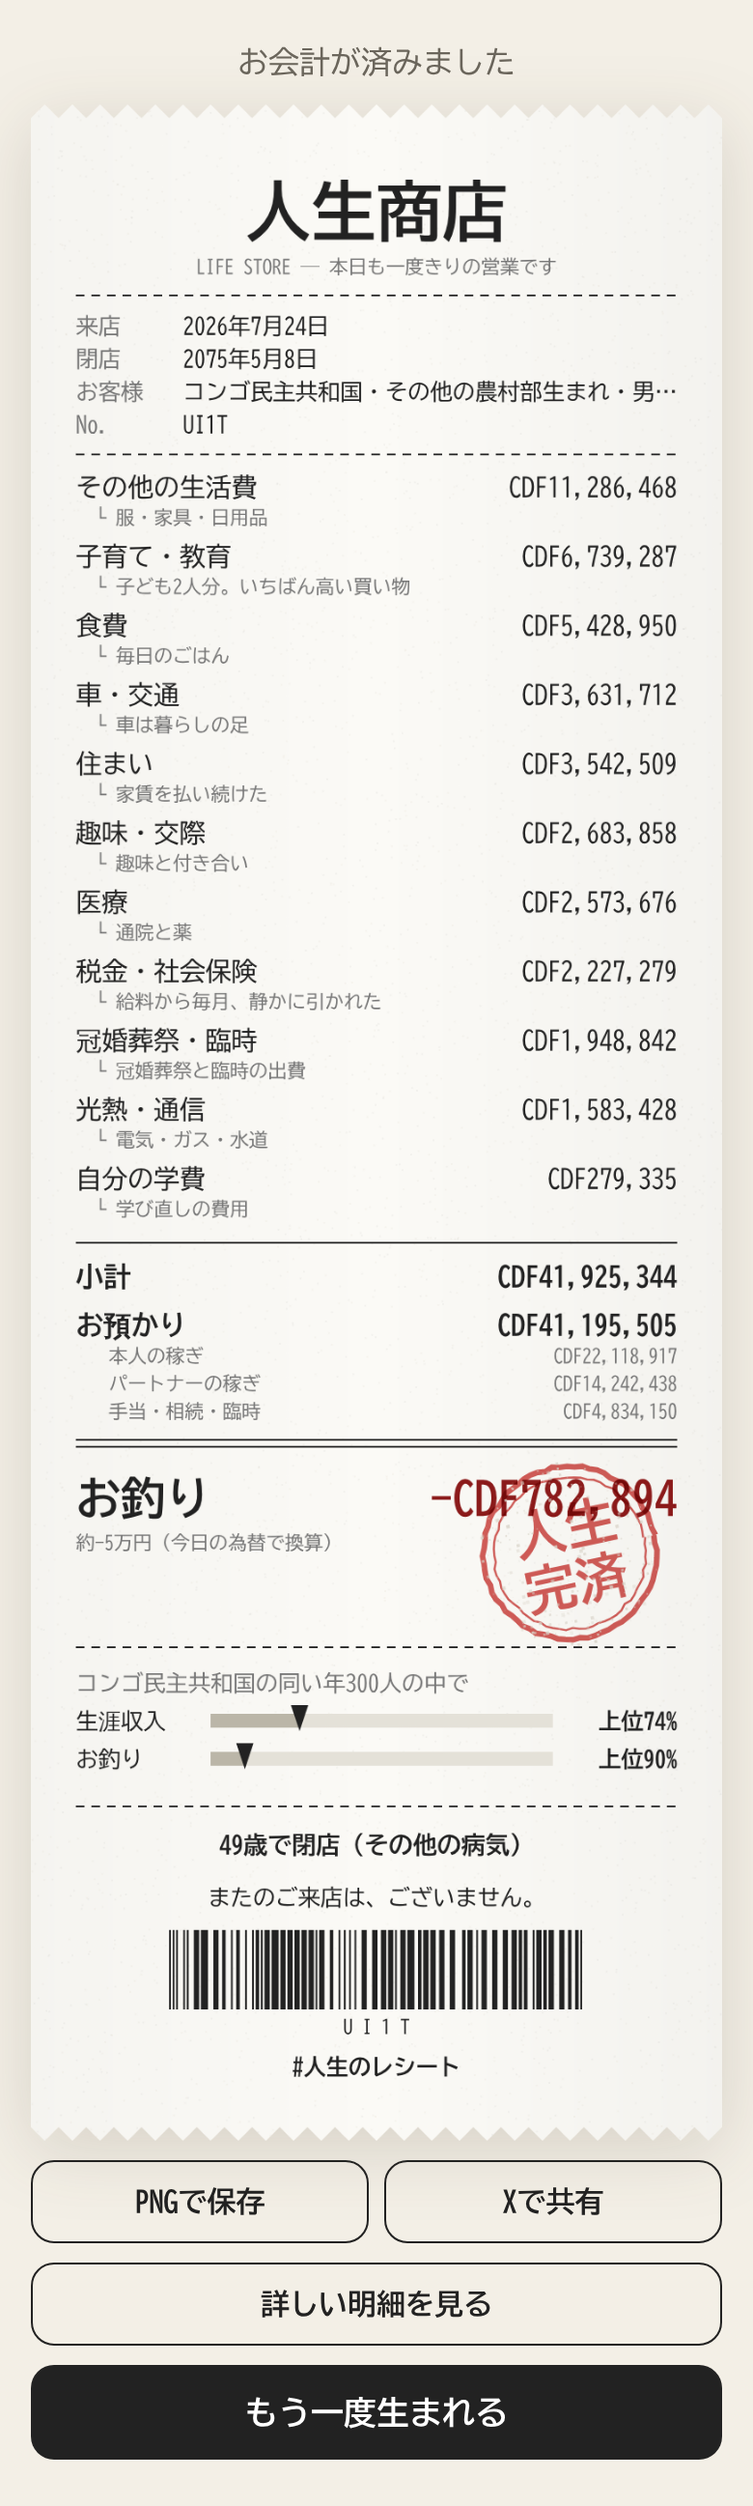
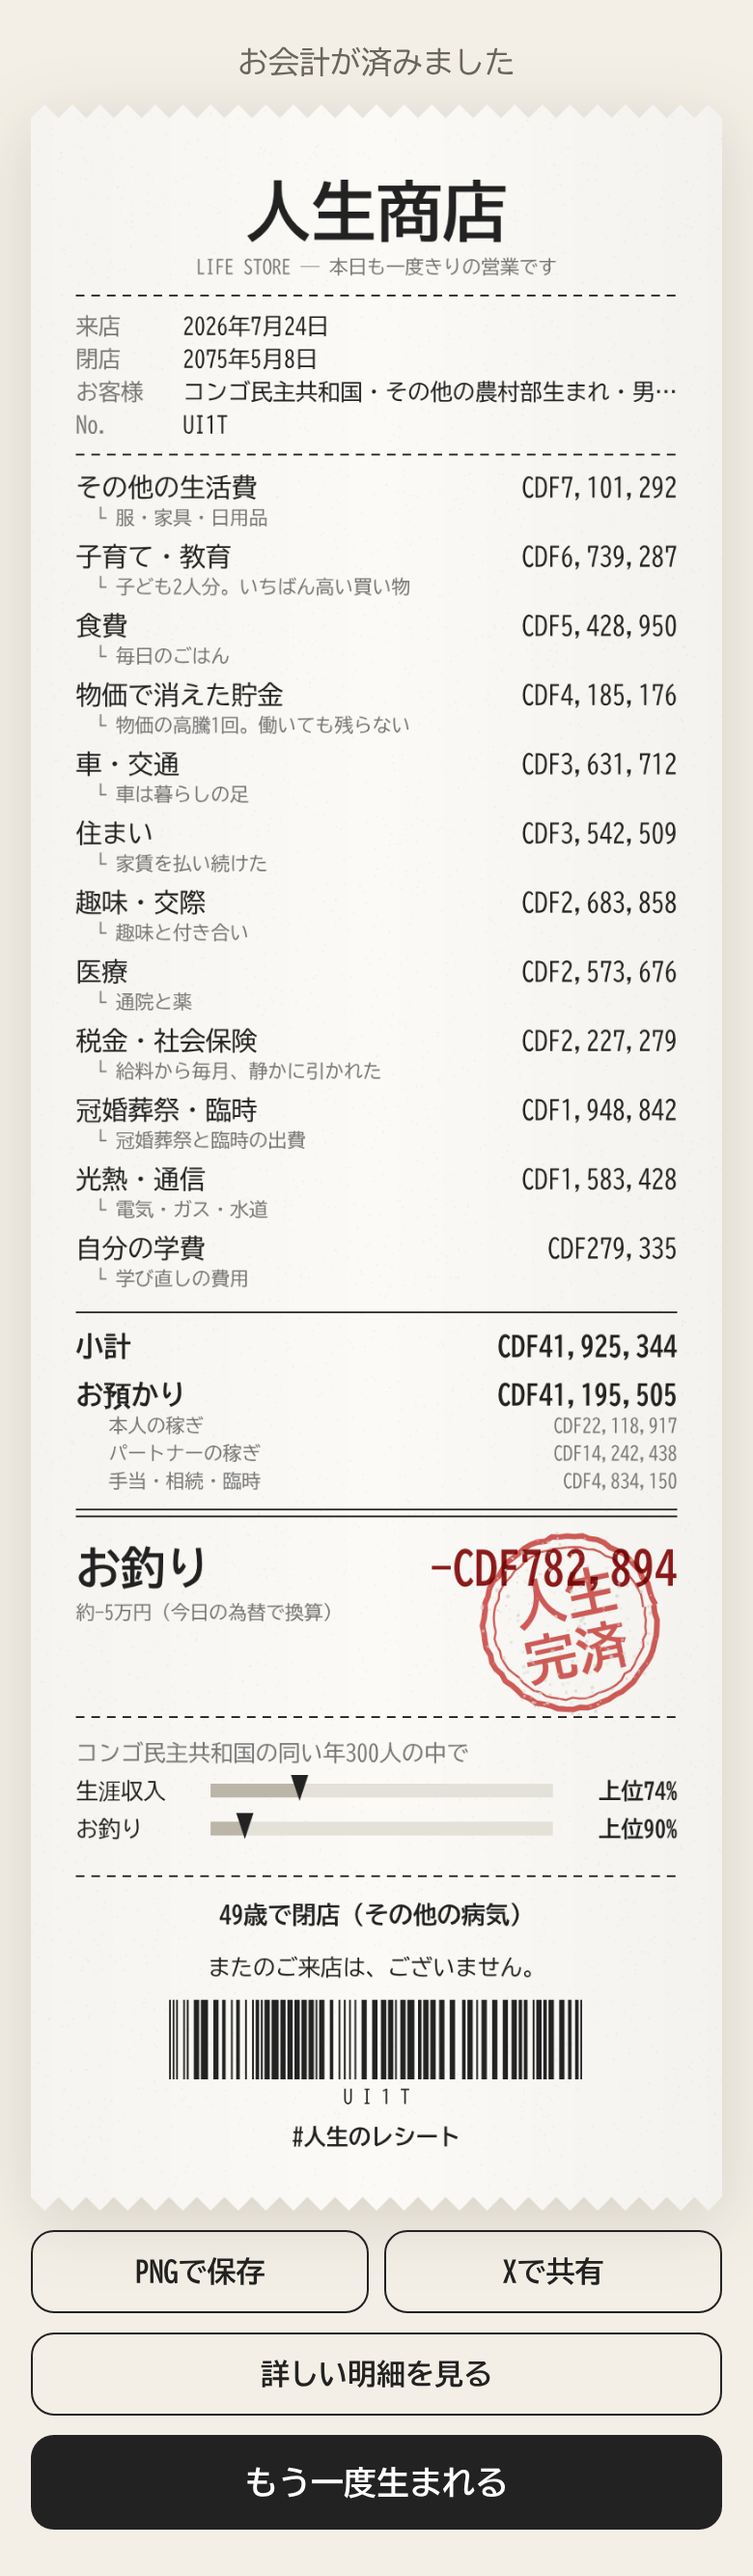
物価で目減りした貯金をレシートの別の行に表示
- 支出の区分に inflation（物価で消えた貯金）を追加し、物価の目減りをここに集計
- メモに物価の高騰が起きた回数を表示
- 税金のメモの判定を円換算で行うようにした（リアルなど桁の大きい通貨で誤っていた）

Claude-Session: https://claude.ai/code/session_01P8h7G7H9Hz4F9jwmunJGJH

diff --git a/src/engine/result.ts b/src/engine/result.ts
@@ -99,7 +99,7 @@ function memoFor(l: Life, cat: ExpenseCat, amount: number): string {
   const has = (t: string) => ev.some((e) => e.text.includes(t));
   switch (cat) {
     case "tax":
-      return amount > 80_000_000 ? "国にはずいぶん貢献した" : "給料から毎月、静かに引かれた";
+      return l.D.toJpy(amount) > 80_000_000 ? "国にはずいぶん貢献した" : "給料から毎月、静かに引かれた";
     case "housing":
       if (has("住宅ローンを完済")) return "35年ローン、完済";
       if (s.ownsHome) return l.loan > 0 ? "ローンは途中のまま" : "マイホーム";
@@ -125,6 +125,10 @@ function memoFor(l: Life, cat: ExpenseCat, amount: number): string {
       return has("災害") || has("地震") ? "災害の修理を含む" : "冠婚葬祭と臨時の出費";
     case "selfEdu":
       return l.choiceLog.some((c) => /loan|night/.test(c.optionId)) ? "奨学金と学費" : "学び直しの費用";
+    case "inflation": {
+      const spells = ev.filter((e) => e.text.includes("実際に記録された上昇率")).length;
+      return spells > 0 ? `物価の高騰${spells}回。働いても残らない` : "物価が上がり、少しずつ目減り";
+    }
     case "other":
       return "服・家具・日用品";
   }
@@ -133,7 +137,7 @@ function memoFor(l: Life, cat: ExpenseCat, amount: number): string {
 export function buildReceipt(l: Life): ReceiptData {
   const s = l.summary();
   const c = cohort(l.D);
-  const order: ExpenseCat[] = ["housing", "food", "tax", "kids", "car", "fun", "other", "utilities", "medical", "care", "selfEdu", "events"];
+  const order: ExpenseCat[] = ["housing", "food", "tax", "kids", "car", "fun", "other", "utilities", "medical", "care", "selfEdu", "events", "inflation"];
   const items: ReceiptItem[] = order
     .map((k) => ({ label: EXPENSE_LABEL[k], amount: Math.round(s.expenseTotal[k] ?? 0), memo: memoFor(l, k, s.expenseTotal[k] ?? 0) }))
     .filter((it) => it.amount >= 10_000)

diff --git a/src/engine/risks.ts b/src/engine/risks.ts
@@ -98,7 +98,7 @@ export function riskYear(l: Life, r: Rng): void {
     // 預金の利息で年5%ほどは取り戻せるとみなし、それを超える上昇の分だけ価値が減る
     const lossRate = Math.min(0.75, (Math.max(0, p - 0.05) / (1 + p)) * 0.8) * (l.protectCash ? 0.3 : 1);
     const loss = cash * lossRate;
-    if (loss > 0) l.spend("other", loss);
+    if (loss > 0) l.spend("inflation", loss);
     // 知らせは、激しい上昇が「始まった年」と「収まった年」だけにする（毎年出すと、出来事の一覧が埋まってしまう）
     if (p >= 0.25) {
       if (l.inflSpell === 0) {
@@ -127,11 +127,11 @@ export function riskYear(l: Life, r: Rng): void {
   } else if (cash > 0 && r.chance(k.inflationCrisisShare * 0.5)) {
     // 年ごとのデータがない国は、過去に物価が暴騰した年の割合から
     const loss = cash * r.range(0.3, 0.7) * (l.protectCash ? 0.4 : 1);
-    l.spend("other", loss);
+    l.spend("inflation", loss);
     l.log("money", `物価が急に跳ね上がり、通貨の価値が下がった。貯金の価値が${Math.round((loss / cash) * 10)}割ほど減った。`, -loss, true);
   } else if (cash > 0 && k.inflationMean > 0.08) {
     const rate = Math.min(0.2, (k.inflationMean - 0.05) * 0.6) * (l.protectCash ? 0.3 : 1);
-    l.spend("other", cash * rate);
+    l.spend("inflation", cash * rate);
     if (!l.inflationNoticed) {
       l.inflationNoticed = true;
       l.log("money", "物価が毎年のように上がり、手元のお金の価値が少しずつ目減りしていく。");

diff --git a/src/engine/types.ts b/src/engine/types.ts
@@ -22,6 +22,7 @@ export type ExpenseCat =
   | "car"
   | "fun"
   | "events"
+  | "inflation" // 物価の上昇で目減りした現金
   | "other";
 
 export type IncomeCat = "salary" | "partner" | "pension" | "windfall" | "invest";
@@ -38,6 +39,7 @@ export const EXPENSE_LABEL: Record<ExpenseCat, string> = {
   car: "車・交通",
   fun: "趣味・交際",
   events: "冠婚葬祭・臨時",
+  inflation: "物価で消えた貯金",
   other: "その他の生活費",
 };
 

diff --git a/README.md b/README.md
@@ -19,7 +19,7 @@
    - **小さな選択（1〜3年ごと）**：お小遣い、部活、アルバイト、ボーナスの使い道、副業の誘い、海外への出稼ぎ、家畜を買う、暗号資産、詐欺電話など26種類。国・年齢・状況で出るものが変わる。
    - **人生の出来事から生まれる選択**：結婚したら「子どもを持つか（ほしい／しばらく二人で／持たない）」、授からないときは不妊治療をするか。夫婦のすれ違いでは「話し合う／カウンセリング／別れる」（いきなり離婚はしない）。パートナーの暴力では「相談窓口の支援で家を出る／家族に相談／様子を見る」（描写はせず、日本では相談先 #8008 を表示）。
    - **国ごとの出来事（110種類）**：ナイジェリアの燃料費高騰、インドのモンスーン洪水、米国の医療費、韓国の塾代、フィリピンの海外就労など、その国の暮らしでよく起きることを選択つきで。
-   - **統計にもとづく出来事**：物価の暴騰（通貨の価値が急落）、盗難・強盗、政情不安、紛争による避難、感染症、干ばつ、洪水・地震。起こりやすさはその国のインフレ率・殺人率・政治の安定度などから決まる。物価が荒れやすい国では「ドルや金で貯める」選択も出る。毎年の物価上昇率は、その国で実際に記録された年の値をひと続きで借りてくる（例：「物価が1年で42%上がった（イランで2025年に実際に記録された上昇率）」）。
+   - **統計にもとづく出来事**：物価の暴騰（通貨の価値が急落）、盗難・強盗、政情不安、紛争による避難、感染症、干ばつ、洪水・地震。起こりやすさはその国のインフレ率・殺人率・政治の安定度などから決まる。物価が荒れやすい国では「ドルや金で貯める」選択も出る。毎年の物価上昇率は、その国で実際に記録された年の値をひと続きで借りてくる（例：「物価が1年で42%上がった（イランで2025年に実際に記録された上昇率）」）。物価で目減りした現金は、レシートに「物価で消えた貯金」として別の行で出る。
    - どの道にも得と損の両方がある。正解はない。
 6. 亡くなるとレシートが発行される。金額は現地通貨（日本以外は円換算も併記）。**PNGで保存**／**Xで共有**／**詳しい明細を見る** ができる。
 

diff --git a/data/world/sources.md b/data/world/sources.md
@@ -184,3 +184,4 @@
 - 現金の目減り：預金の利息で年5%ほどは取り戻せるとみなし、残りの上昇分 ×0.8 を価値の減少とする（最大75%、ドルや金で持っていれば3割に）。
 - 知らせは、年25%以上の上昇が始まった年（実際の年と国名を添える）と、2年以上続いて収まった年だけに出す。
 - 年ごとのデータがない国（PRK）は、これまでどおり平均と暴騰の割合から起こす。
+- 目減りした額は支出の区分「inflation」に入れ、レシートに「物価で消えた貯金」として表示する（これまでは「その他の生活費」に混ざっていた）。
